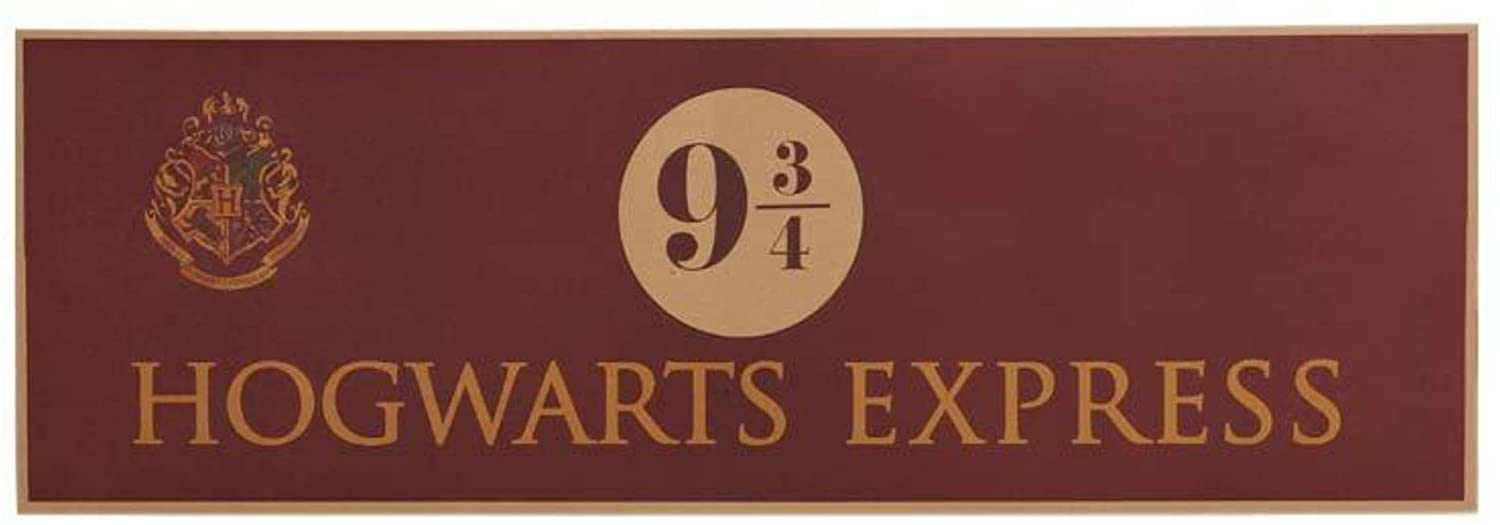
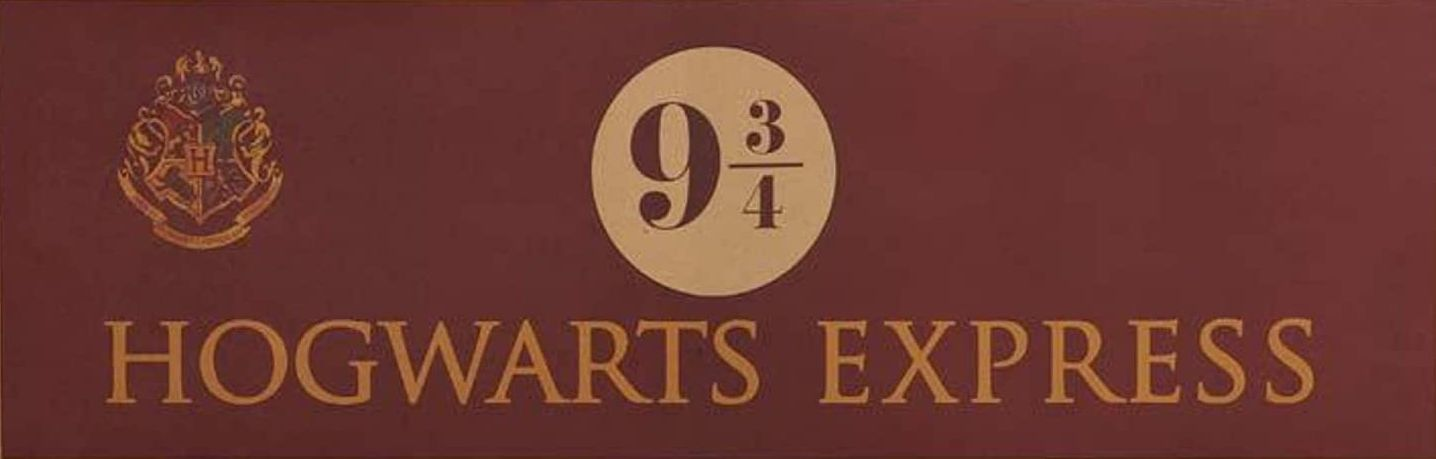
cropped hogwarts image changed card styles

diff --git a/style.css b/style.css
@@ -10,6 +10,7 @@ body{
       transition: .3s transform cubic-bezier(.155,1.105,.295,1.12),.3s box-shadow,.3s -webkit-transform cubic-bezier(.155,1.105,.295,1.12);
   padding: 14px 80px 18px 36px;
   cursor: pointer;
+  height: 200px;
 }
 
 .card:hover{
@@ -21,7 +22,7 @@ body{
   font-weight: 600;
 }
 
-.card img{
+/* .card img{
   position: absolute;
   top: 20px;
   right: 15px;
@@ -47,7 +48,7 @@ body{
       background-repeat: no-repeat;
     background-position: right;
     background-size: 80px;
-}
+} */
 
 @media(max-width: 990px){
   .card{
